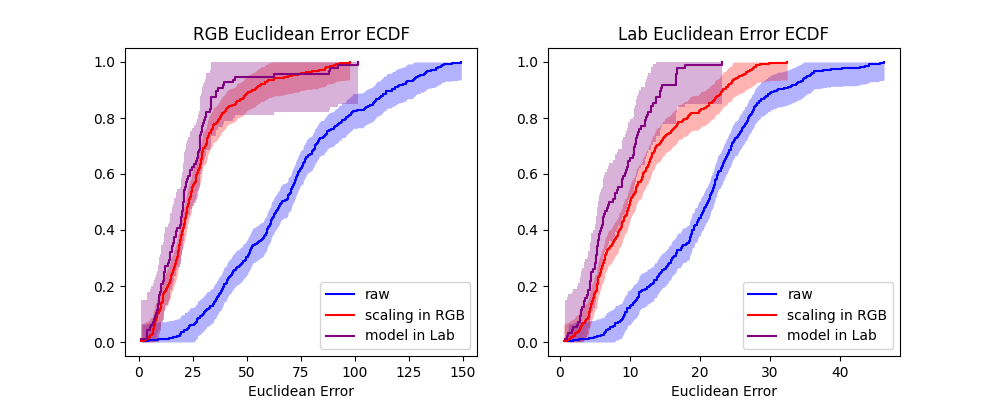
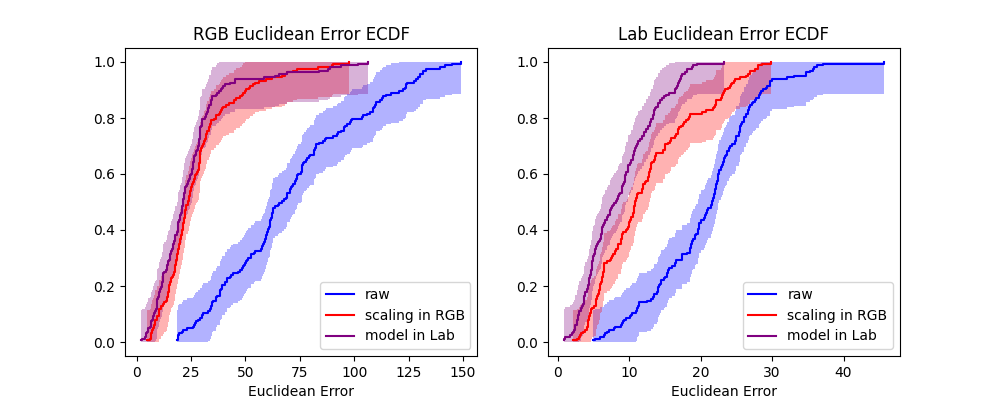
experiment with same test set

diff --git a/main.py b/main.py
@@ -32,10 +32,13 @@ df = pd.concat([df_daylight1, df_daylight2], ignore_index=True)
 df_raw = df.copy()
 df = convert_rgb_cols(df, prefix="gt__", to=ColorSpace.LAB)
 df = convert_rgb_cols(df, prefix="color_r4_", to=ColorSpace.LAB)
+df_train = df.sample(frac=0.66, random_state=0)
+df_test = df.drop(df_train.index)
+
 
 corrector_scaling = CorrectionByScaling(space=ColorSpace.RGB, r=4)
-df = corrector_scaling.apply_correction(df, prefix="scaling_correction")
-df = convert_rgb_cols(df, prefix="scaling_correction_r4_", to=ColorSpace.LAB)
+df_test = corrector_scaling.apply_correction(df_test, prefix="scaling_correction")
+df_test = convert_rgb_cols(df_test, prefix="scaling_correction_r4_", to=ColorSpace.LAB)
 
 fig, axs = plt.subplots(1, 2, figsize=(10, 4))
 
@@ -45,34 +48,31 @@ axs[1].set_title("Lab Euclidean Error ECDF")
 axs[1].set_xlabel("Euclidean Error")
 
 eucl_raw_rgb = np.sqrt(
-    (df["color_r4_R"] - df["gt__R"])**2 + \
-    (df["color_r4_G"] - df["gt__G"])**2 + \
-    (df["color_r4_B"] - df["gt__B"])**2
+    (df_test["color_r4_R"] - df_test["gt__R"])**2 + \
+    (df_test["color_r4_G"] - df_test["gt__G"])**2 + \
+    (df_test["color_r4_B"] - df_test["gt__B"])**2
 )
 axs[0] = plot_ecdf(axs[0], eucl_raw_rgb, label="raw", color='blue')
 eucl_scaling_rgb = np.sqrt(
-    (df["scaling_correction_r4_R"] - df["gt__R"])**2 + \
-    (df["scaling_correction_r4_G"] - df["gt__G"])**2 + \
-    (df["scaling_correction_r4_B"] - df["gt__B"])**2
+    (df_test["scaling_correction_r4_R"] - df_test["gt__R"])**2 + \
+    (df_test["scaling_correction_r4_G"] - df_test["gt__G"])**2 + \
+    (df_test["scaling_correction_r4_B"] - df_test["gt__B"])**2
 )
 axs[0] = plot_ecdf(axs[0], eucl_scaling_rgb, label="scaling in RGB", color='red')
 eucl_raw_lab = np.sqrt(
-    (df["color_r4_l"] - df["gt__l"])**2 + \
-    (df["color_r4_a"] - df["gt__a"])**2 + \
-    (df["color_r4_b"] - df["gt__b"])**2
+    (df_test["color_r4_l"] - df_test["gt__l"])**2 + \
+    (df_test["color_r4_a"] - df_test["gt__a"])**2 + \
+    (df_test["color_r4_b"] - df_test["gt__b"])**2
 )
 axs[1] = plot_ecdf(axs[1], eucl_raw_lab, label="raw", color='blue')
 eucl_scaling_lab = np.sqrt(
-    (df["scaling_correction_r4_l"] - df["gt__l"])**2 + \
-    (df["scaling_correction_r4_a"] - df["gt__a"])**2 + \
-    (df["scaling_correction_r4_b"] - df["gt__b"])**2
+    (df_test["scaling_correction_r4_l"] - df_test["gt__l"])**2 + \
+    (df_test["scaling_correction_r4_a"] - df_test["gt__a"])**2 + \
+    (df_test["scaling_correction_r4_b"] - df_test["gt__b"])**2
 )
 axs[1] = plot_ecdf(axs[1], eucl_scaling_lab, label="scaling in RGB", color='red')
 
 # Model
-df_train = df_raw.sample(frac=0.8, random_state=0)
-df_test = df_raw.drop(df_train.index)
-
 corrector_model = CorrectionByModel(space=ColorSpace.LAB, r=4, degree=1, boundary_penalty_factor=0)
 corrector_model.train(df_train)
 df_test = corrector_model.apply_correction(df_test, prefix="model_correction")
